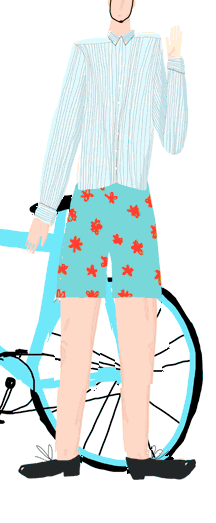
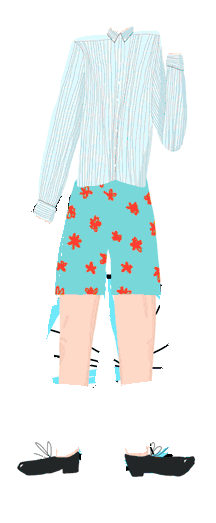
shuffle easing

Changed region(s): [[0.0, 0.0, 0.9444, 0.9178], [0.5, 0.7954, 0.5278, 0.826]]

diff --git a/js/main.js b/js/main.js
@@ -1,14 +1,20 @@
 var intervalCount;
 var intervalId;
 var lastOutfitNum;
+var intervalsMx = [2,1.9,1.75, 1.65, 1.6, 1.55, 1.5, 1.45, 1.4, 1.3, 1.2, 1.1, 1,1,1,1,1,1,1,1,1.2, 1.3, 1.4, 1.5, 1.8, 2]
+var basicTimeout = 120;
 
 function launchAnimation(){
   intervalCount = 0;
   $("#outfit").show();
-  intervalId = setInterval(changeOutfit, 150);
+  intervalId = setInterval(changeOutfit, interval(intervalCount));
   changeOutfit();
-
 }
+
+function interval(count){
+  return intervalsMx[count]*basicTimeout;
+}
+
 function changeOutfit(){
   intervalCount += 1;
   if (intervalCount > 20){

diff --git a/css/main.css b/css/main.css
@@ -124,7 +124,7 @@ header img{
 #outfit{
   position: absolute;
   left: 234px;
-  top: 74px;
+  top: 73px;
   display: none;
   /*opacity: 0.3;*/
 }
